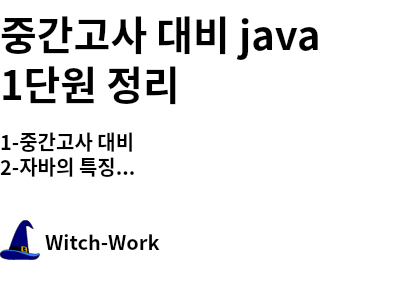
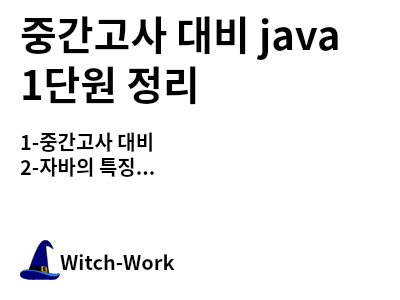
썸네일 사진 요소 간격 변경

diff --git a/src/pages/posts/[category]/index.tsx b/src/pages/posts/[category]/index.tsx
@@ -18,18 +18,9 @@ interface PostMetaData{
   title: string;
   description: string;
   image?: string;
-  headings?: string[];
   date: string;
   tags: string[];
   url: string;
-}
-
-function generateQueryString(title: string, headings: string[]) {
-  const queryString=new URLSearchParams({
-    title:title.replaceAll(' ','').replace(/[0-9]/g, '').replaceAll('.',''),
-    headings: JSON.stringify(headings),
-  });
-  return queryString.toString();
 }
 
 function PostListPage({
@@ -60,9 +51,6 @@ function PostListPage({
         <h1 className={styles.title}>{`${category} 주제의 글`}</h1>
         <ul className={styles.list}>
           {postList.map((post: PostMetaData) =>{
-            if (!('image' in post)) {
-              post.image=`${blogConfig.url}/api/thumbnail?${generateQueryString(post.title, post.headings as string[])}`;
-            }
             return (
               <li key={post.url}>
                 <Card {...post} />
